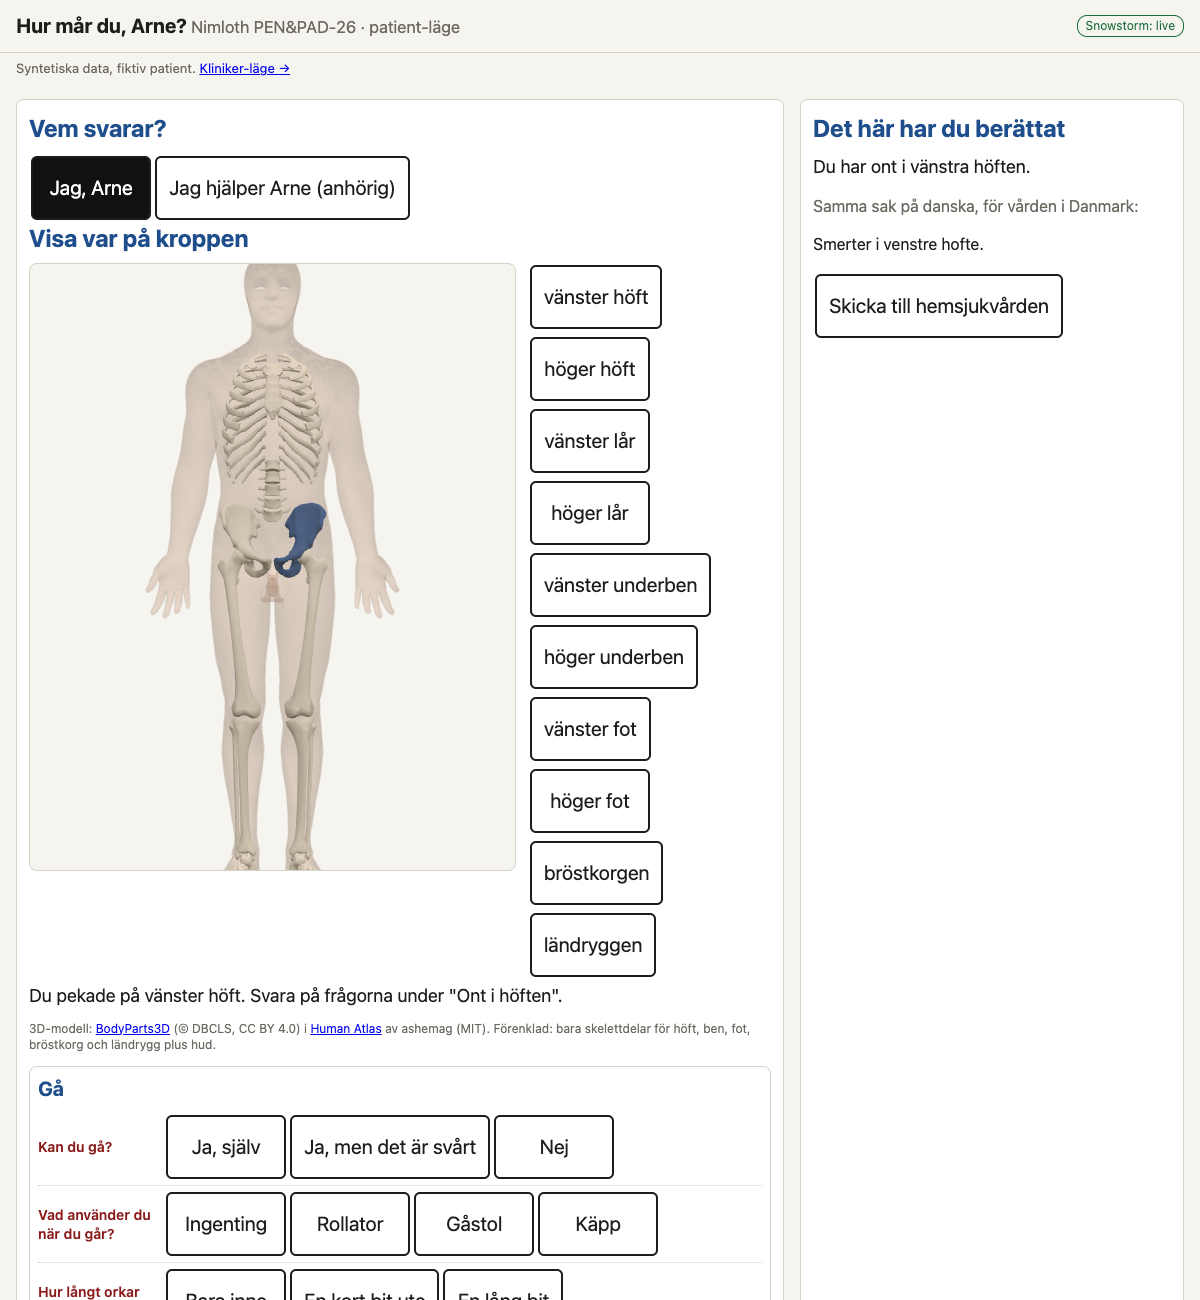
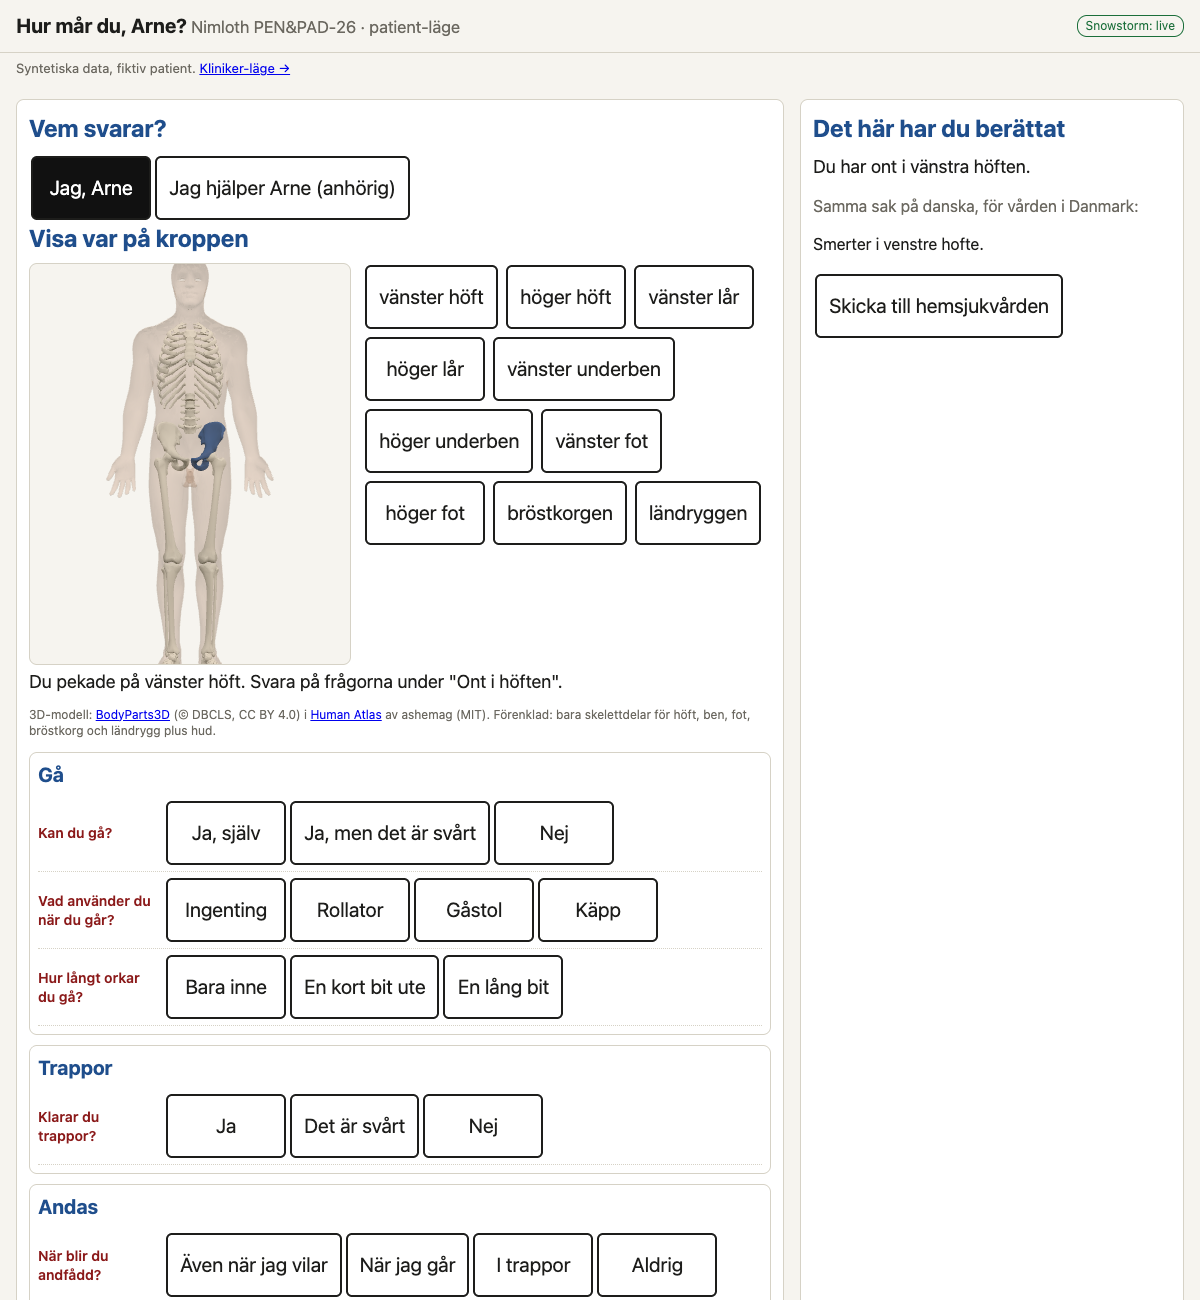
Nimloth PEN&PAD-26: optional 3D in clinician mode, smaller 3D view, screenshots

diff --git a/challenge/nimloth-penpad26/readme.md b/challenge/nimloth-penpad26/readme.md
@@ -9,7 +9,7 @@ Arne (83, fictional) breaks his hip on the stairs in Copenhagen and is discharge
 
 We used the same coded record for both sides of the border:
 - **Clinician mode** (discharge, Rigshospitalet) follows the track's three steps. *Orientation:* body map (hip, leg, chest), topic list (transfer, walking, stairs, breathing, pain, wound), or free text / speech. *Refinement:* only follow-ups that make sense, as short questions (fracture → left or right? operated? · walking → aid? how far? · breathing → breathless at rest, walking or stairs?). *Confirmation:* "Is this what you meant?" as a live sentence.
-- **Patient mode** (at home in Sweden): plain Swedish and big buttons, plus a **3D body** to point at (where it hurts, where the leg ulcer is). The 3D view is only the default in patient mode; the clinician keeps a fast 2D map and list, because a model you must rotate slows a clinician down (Rector: "exhaustive is the enemy of the useful"). A list next to the 3D view does the same thing, and replaces it when WebGL or the geometry is missing. Arne answers himself, or his son does it for him. The result is saved as a **draft marked patient-reported**, with "reported by: patient / relative". The home-care nurse opens the draft in clinician mode, refines it and confirms it. We show provenance; we do not try to solve proxy consent.
+- **Patient mode** (at home in Sweden): plain Swedish and big buttons, plus a **3D body** to point at (where it hurts, where the leg ulcer is). The 3D view is only the default in patient mode; the clinician keeps a fast 2D map and list, because a model you must rotate slows a clinician down (Rector: "exhaustive is the enemy of the useful"). Clinicians can switch on the same 3D view ("Visa i 3D"); it uses the same component, geometry, FMA→SNOMED table and refinement engine. A list next to the 3D view does the same thing, and replaces it when WebGL or the geometry is missing. Arne answers himself, or his son does it for him. The result is saved as a **draft marked patient-reported**, with "reported by: patient / relative". The home-care nurse opens the draft in clinician mode, refines it and confirms it. We show provenance; we do not try to solve proxy consent.
 
 ## Three things worth looking at
 1. **The track's three steps in both modes**: orientation, refinement and confirmation.
@@ -55,4 +55,5 @@ To the PEN&PAD revival team for the [Clinergy extractor and notes](https://pen-p
 | ![Orientation](01-inriktning.png) Orientation: body map + topic list | ![Refinement](02-forfining.png) Refinement as short questions |
 | ![Four languages](03-fyra-sprak.png) One record, four languages | ![EPS validation](04-eps-validering.png) openEHR saved, EPS validated |
 | ![Receipt](06-kvittens.png) Published EPS + "Mottaget och läst" receipt | |
+| ![Clinician 3D](08-kliniker-3d.png) Optional 3D in clinician mode: left hip → pain card, side pre-filled | |
 | ![Patient mode](05-patient-lage.png) Patient mode (relative answering) | ![3D body](07-patient-3d-hoft.png) Arne points at his left hip in 3D → "Du har ont i vänstra höften." / "Smerter i venstre hofte." |
